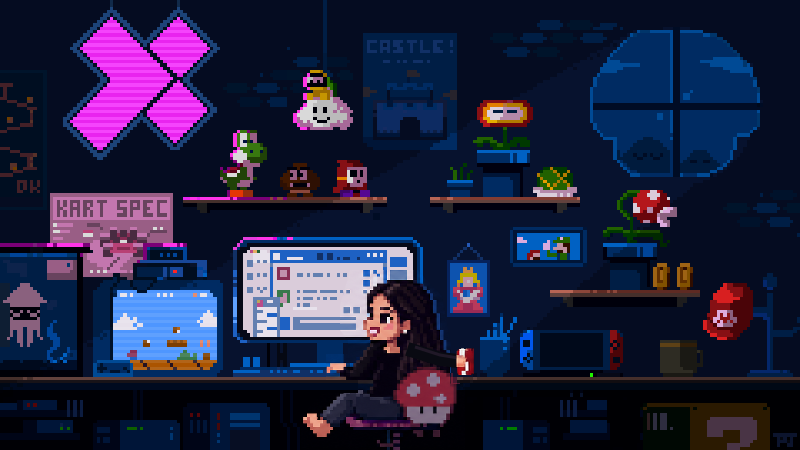
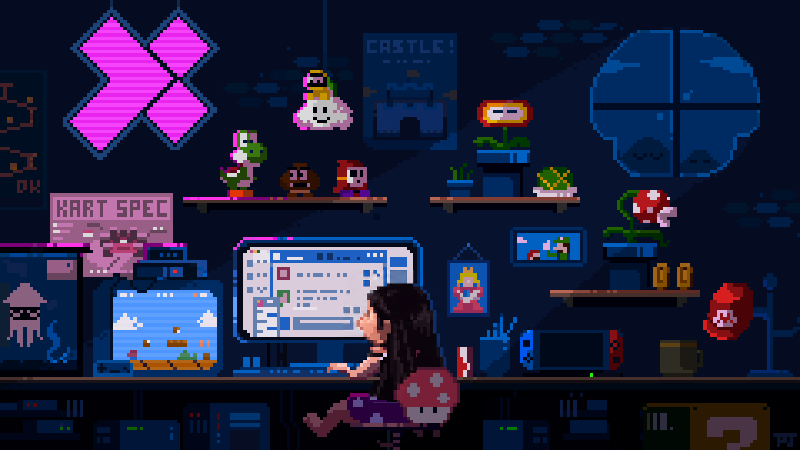
Restore original screen-facing poses and preserve the original drink action

Changed region(s): [[0.375, 0.6222, 0.5938, 0.9644]]

diff --git a/assets/aapsi-pixel-room.prompt.md b/assets/aapsi-pixel-room.prompt.md
@@ -1,24 +1,28 @@
-# Personalized pixel room
+# Personalized pixel room — original-pose revision
 
-Generated with the built-in image-generation tool, using the public GitHub avatar at `https://avatars.githubusercontent.com/u/39875852?v=4` as the identity reference and the original room as the edit target. The source photo is not committed.
+Created with the built-in image-generation tool. The public GitHub avatar supplies the character identity; the original room’s frames 0 and 12 supply the exact viewing direction and posture. The source portrait is not committed.
 
-## Final generation prompt
+## Final prompts
 
-Use case: identity-preserve / precise-object-edit. Edit target: Image 1, the existing 1920x1080 pixel-art gaming room. Identity reference: Image 2, the user's actual GitHub profile portrait. Replace ONLY the seated human gamer in the lower middle of Image 1 with a pixel-art version of the woman in Image 2. Preserve her recognizable long straight dark center-parted hair, warm medium complexion, facial likeness, black long-sleeved top and subtle necklace. Make her seated at exactly the same desk in the same position and scale as the original gamer, facing left toward the code monitor, with a slight three-quarter face angle and friendly expression. Preserve the mushroom chair and keyboard pose. Match Image 1's genuine chunky 8px pixel grid and tightly limited dark blue/purple game palette; no smooth painting, no vector, no photorealistic pasted face. Critical production constraints: output the entire room in exactly the same 16:9 framing, no camera move, no crop, no resizing/repositioning of any room element. All pixels outside the seated character region (approximately x=720..1090, y=650..1079 in the 1920x1080 image) should remain visually unchanged. Do not change the shelves, game characters, monitors, posters, window, lighting, or any text. The existing animated room will be retained around your edited character; exact registration matters. Deliver one full-room edited PNG.
+Shared prompt for both edits:
 
-## Animation assembly
+Precise identity-preserving pixel-art edit. Image 1 is the edit target, an original animation frame. Image 2 is the identity reference, the user's portrait. Preserve the EXACT scene framing, camera, pixel grid, head position, body proportions, shoulder position, arms, hands, chair, desk, and EVERY background element of Image 1. Change ONLY the character's head/hair to depict the woman in Image 2 with long straight dark hair and her complexion, and change the existing shirt to black. Extremely important: copy the original character's exact gaze and head orientation, do not pose for the camera, do not show a frontal face or a smile at the viewer, no giant anime eyes, no chibi face. Use the same coarse 8-pixel block art as the original, a limited palette, no smooth gradients or detailed hair strands. Keep long hair neatly falling down the back so it does not hide the working hand, the drink, or the chair. Do not reposition or redesign any arm, hand, drink, or body part; preserve the original gesture exactly. This image is a registered animation appearance layer, not a new composition. Output one full-scene PNG in exactly the original 16:9 composition.
 
-`scripts/build-personal-room.cjs` combines the generated character region with each original room frame. The room retains its 49 frames at 100 ms each, looping indefinitely. The likeness remains registered in place; a connected sleeve/hand/drink rig animates the reach, sip, and return. The old desk-bottle motion is removed using an empty-desk region from the original animation. The result is 800×450; the still is its reduced-motion counterpart.
+Screen-facing edit:
 
-Outputs: `aapsi-pixel-room.gif`, `aapsi-pixel-room-still.png`. The unmodified generated output is `aapsi-room-source.png`.
+In this frame, the character looks toward the computer screen at upper left. We see the back and right side of her head with only a narrow sliver of left-pointing cheek/nose visible. Her eye line must go into the monitor, never toward the viewer. Preserve the original keyboard-working posture.
 
-To rebuild with Node.js and Sharp installed: `node scripts/build-personal-room.cjs`. Alternatively, set `SHARP_MODULE` to an existing Sharp installation.
+Turned edit:
 
+In this frame the original character has turned toward the drink, so the camera sees the BACK OF THE HEAD. Keep that exact orientation: long dark hair at the back, no visible eyes or frontal face. Preserve the already-raised hand at the character's right and the original turned posture exactly.
 
-## Drinking-action correction
+## Assets and animation assembly
 
-A second built-in image-generation edit supplied reaching, lifting, sipping, and returning poses in `aapsi-drinking-source.png`. The sheet serves as motion/art reference and supplies the isolated grip sprite (`aapsi-drink-grip.png`); its room layout is not substituted into the animation. The assembly script connects the sleeve, grip, and drink throughout a smooth path and rotates the opening toward the lips. The original bottle is absent during the sip and restored to its desk position on return.
+- `aapsi-screen-pose.png`: generated screen-facing appearance.
+- `aapsi-turned-pose.png`: generated turned appearance.
+- `aapsi-pixel-room.gif`: final 800×450, 49-frame, 100 ms/frame infinite loop.
+- `aapsi-pixel-room-still.png`: matching reduced-motion frame.
 
-Final generation prompt:
+`scripts/build-personal-room.cjs` applies the two appearance poses to the original animation. It tracks the original head movement, switches orientation with the source turn, and preserves the source’s foreground hands and drink. The old custom arm rig is removed. This preserves the original action instead of simulating a separate pickup path.
 
-Precise animation sprite-sheet edit. The reference is a personalized pixel-art gaming-room frame. Deliver a perfectly registered 2 by 2 contact sheet of FOUR frames of this EXACT full scene, in row-major order, with NO gaps, NO labels, NO borders, and no camera changes. Overall canvas 1600x900; each equal tile is the entire 800x450 reference scene. Preserve the room, seated woman's likeness, long dark hair, black top, mushroom chair, face position, body placement, palette, chunky pixels, and all background elements identically across all four frames. ONLY animate her near/right arm and the existing red-and-white Diet Coke drink on the desk just to the right of her chair. Keep her other hand at the keyboard. TOP LEFT = reaching right and grasping the upright drink on the desk. TOP RIGHT = holding the drink in the hand, lifted halfway between the desk and mouth, elbow naturally bent, drink moving in front of the torso. BOTTOM LEFT = taking a sip with the drink opening physically touching the lips, drink tilted toward the mouth, hand visibly gripping it, elbow lowered naturally. BOTTOM RIGHT = lowering the drink back toward its original desk position, still firmly held. Exactly one drink exists in each frame; the original desk spot is EMPTY whenever the drink is held up. No floating drink, no detached hand, no extra limbs, no ghost images. The woman's head and chair must stay perfectly fixed in place between frames. Use genuine crisp low-resolution pixel animation, not smooth illustration. This will be sliced into real animation keyframes; registration and physically connected hand/drink motion are essential.
+Rebuild with Node.js and Sharp: `node scripts/build-personal-room.cjs`. `SHARP_MODULE` can point to an existing Sharp installation.

diff --git a/assets/README.md b/assets/README.md
@@ -36,6 +36,6 @@ The current-work panels describe distributed systems and DePIN at Bloxtel. Compa
 
 ## Personalized room
 
-The displayed room is now `aapsi-pixel-room.gif`: the user’s public GitHub avatar reinterpreted as the seated pixel character. The original room remains credited above and supplies the animation frames. The generated character edit and full prompt are documented in [aapsi-pixel-room.prompt.md](./aapsi-pixel-room.prompt.md). `aapsi-pixel-room-still.png` is the reduced-motion fallback. The original `pixel-room.gif` is retained as the assembly source.
+The displayed `aapsi-pixel-room.gif` adapts the user’s public GitHub avatar into the original gaming-room character. Two generated appearance poses face the monitor and turn with the original drinking action. The original hand and drink animation is preserved; no separate arm rig is used. The room and its animation remain credited above.
 
-The drinking-action correction uses a generated grip sprite and a connected arm/drink rig. The original bottle animation is suppressed so the drink cannot float independently or duplicate on the desk. Details and generation prompt are in `aapsi-pixel-room.prompt.md`.
+The pose sources and full built-in generation prompts are documented in [aapsi-pixel-room.prompt.md](./aapsi-pixel-room.prompt.md). `aapsi-pixel-room-still.png` is the reduced-motion fallback. The original `pixel-room.gif` remains the animation source.
